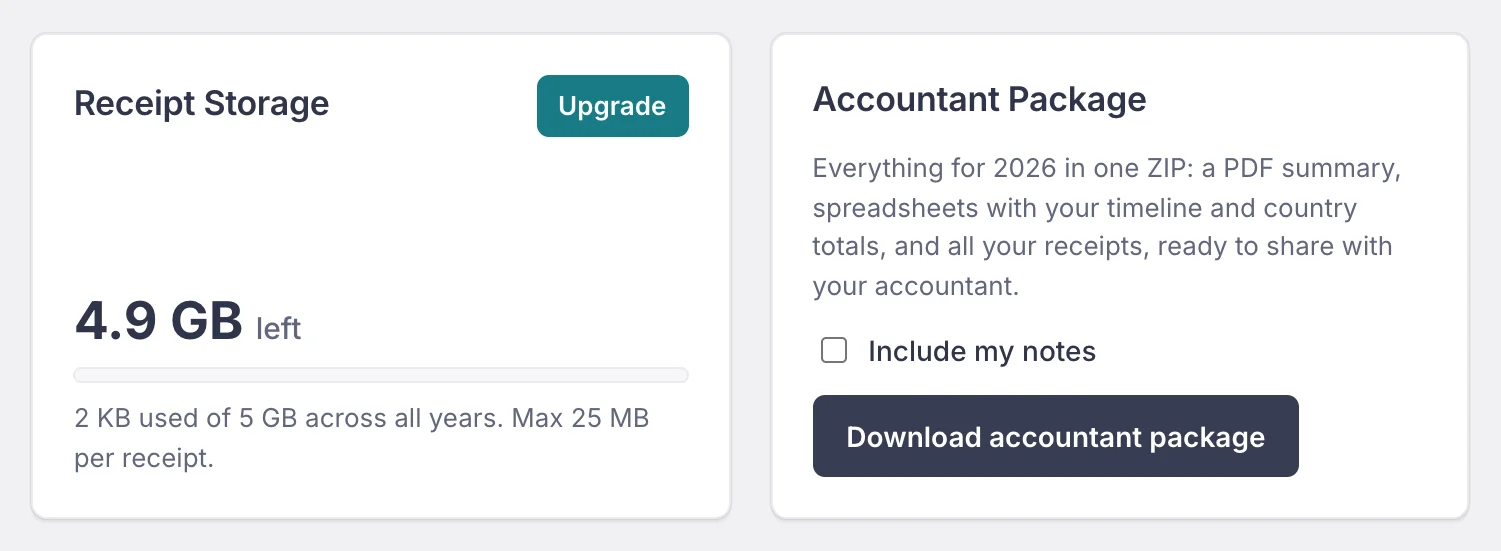
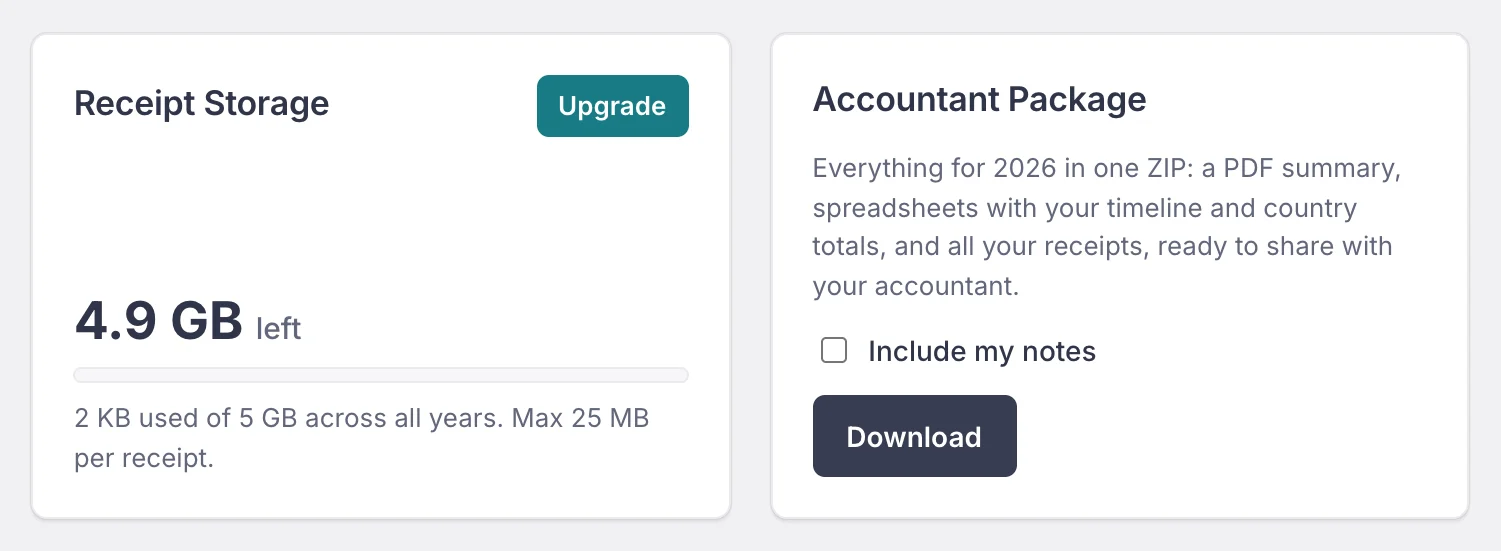
1.12.11: equal year tabs and Add movement, Download button with tooltip, no star on the base

Changed region(s): [[0.6436, 0.7096, 0.8887, 0.8639]]

diff --git a/static/css/style.css b/static/css/style.css
@@ -300,7 +300,9 @@ main:focus { outline: none; }
 
 /* Year tabs */
 .year-tabs { display: flex; gap: 4px; background: var(--surface); border: 1px solid var(--border); border-radius: 8px; padding: 4px; flex-wrap: wrap; }
-.year-tab { padding: 5px 12px; border-radius: 5px; color: var(--muted); font-weight: 600; font-size: 14px; }
+.year-tab { display: inline-flex; align-items: center; justify-content: center; min-width: 68px; padding: 5px 12px; border-radius: 5px; color: var(--muted); font-weight: 600; font-size: 14px; }
+/* The year tabs and "+ Add movement" share one height, and every tab has the same width. */
+.year-actions { align-items: stretch; }
 .year-tab:hover { text-decoration: none; background: var(--surface-2); color: var(--text); }
 .year-tab.active { background: var(--primary); color: var(--primary-text); }
 .year-tab.add { color: var(--link); }
@@ -984,16 +986,21 @@ main:focus { outline: none; }
 
 /* Header icon buttons (Documentation, Contact support) name themselves in a small tooltip under
    the button, on mouse hover and on keyboard focus; screen readers use the aria-label. */
-.icon-btn[data-tip] { position: relative; text-decoration: none; }
-.icon-btn[data-tip]::after {
+/* CSS tooltips: header icon buttons and buttons with a short label ("Download"). */
+.icon-btn[data-tip], .btn[data-tip] { position: relative; text-decoration: none; }
+.icon-btn[data-tip]::after, .btn[data-tip]::after {
   content: attr(data-tip); position: absolute; top: calc(100% + 8px); left: 50%; z-index: 30;
   transform: translate(-50%, -2px); padding: 5px 9px; border-radius: 6px; white-space: nowrap;
   background: var(--primary); color: var(--primary-text); font-size: 12px; font-weight: 600;
   line-height: 1.3; box-shadow: var(--shadow); opacity: 0; pointer-events: none;
   transition: opacity 0.12s ease, transform 0.12s ease;
 }
-@media (hover: hover) { .icon-btn[data-tip]:hover::after { opacity: 1; transform: translate(-50%, 0); } }
-.icon-btn[data-tip]:focus-visible::after { opacity: 1; transform: translate(-50%, 0); }
+@media (hover: hover) { .icon-btn[data-tip]:hover::after, .btn[data-tip]:hover::after { opacity: 1; transform: translate(-50%, 0); } }
+.icon-btn[data-tip]:focus-visible::after, .btn[data-tip]:focus-visible::after { opacity: 1; transform: translate(-50%, 0); }
+/* A text button's tooltip starts at its left edge: centred, it ran out of the card. */
+.btn[data-tip]::after { left: 0; transform: translate(0, -2px); }
+@media (hover: hover) { .btn[data-tip]:hover::after { transform: none; } }
+.btn[data-tip]:focus-visible::after { transform: none; }
 .icon-btn[aria-current="page"] { background: rgba(255, 255, 255, 0.14); }
 /* Admin page: larger section titles, and the Security Activity gear menu (a <details>, like the
    user menu, with the same panel and items; icons drawn in CSS). */

diff --git a/templates/docs.html b/templates/docs.html
@@ -265,8 +265,8 @@
 
       <section id="package" class="doc-section" data-doc-title="Accountant package">
         <h2>Accountant package</h2>
-        <p>One ZIP per year for your accountant, from the <strong>Pro</strong> plan on. Press <strong>Download accountant package</strong> on the dashboard. Tick <strong>Include my notes</strong> to add your notes to <code>timeline.csv</code>.</p>
-        {{ shot('package', 'The Accountant Package card with the Include my notes box and the Download accountant package button, next to the Receipt Storage card', 'The package is built when you press the button; it does not use your storage.') }}
+        <p>One ZIP per year for your accountant, from the <strong>Pro</strong> plan on. Press <strong>Download</strong> on the Accountant Package card of the dashboard. Tick <strong>Include my notes</strong> to add your notes to <code>timeline.csv</code>.</p>
+        {{ shot('package', 'The Accountant Package card with the Include my notes box and the Download button, next to the Receipt Storage card', 'The package is built when you press the button; it does not use your storage.') }}
         <figure class="doc-figure">
           <pre class="doc-tree" aria-label="Files in the package"><span class="doc-tree-dir">NomadLife-2026-accountant-package/</span>
   README.txt           <span class="muted">what each file is</span>

diff --git a/static/js/theme.js b/static/js/theme.js
@@ -421,8 +421,9 @@
           via.textContent = "(" + hint + ")";
           li.appendChild(via);
         }
-        if (favData) {
-          // The star: mouse and touch; Shift+Enter does the same for the highlighted country.
+        if (favData && e !== base) {
+          // The star (not on the base, which is always first anyway): mouse and touch;
+          // Shift+Enter does the same for the highlighted country.
           var on = !!favorites[e.name];
           var star = document.createElement("button");
           star.type = "button"; star.tabIndex = -1;
@@ -528,7 +529,10 @@
         setActive((active + step + shown.length) % shown.length);
       } else if (e.key === "Enter" && e.shiftKey) {
         // Shift+Enter stars or unstars the highlighted country.
-        if (isOpen && active >= 0 && shown[active]) { e.preventDefault(); toggleFavorite(shown[active]); }
+        if (isOpen && active >= 0 && shown[active]) {
+          e.preventDefault();
+          if (shown[active] !== base) toggleFavorite(shown[active]);
+        }
       } else if (e.key === "Enter") {
         if (isOpen && active >= 0 && shown[active]) { e.preventDefault(); choose(shown[active]); }
       } else if (isOpen && e.altKey && (e.key === "ArrowLeft" || e.key === "ArrowRight")) {

diff --git a/templates/dashboard.html b/templates/dashboard.html
@@ -7,7 +7,7 @@
     <p class="eyebrow">Solar year</p>
     <h1>{{ y.year }}</h1>
   </div>
-  <div class="row wrap gap-sm">
+  <div class="row wrap gap-sm year-actions">
     <nav class="year-tabs" aria-label="Years">
       {% for r in years %}
         <a class="year-tab {% if r.year == y.year %}active{% endif %}" href="{{ url_for('dashboard', year=r.year) }}"{% if r.year == y.year %} aria-current="page"{% endif %}>{{ r.year }}</a>
@@ -267,7 +267,7 @@
     <form method="get" action="{{ url_for('year_package', year=y.year) }}" class="package-form" data-download>
       <label class="check"><input type="checkbox" name="notes" value="1"> Include my notes</label>
       <input type="hidden" name="dl" value="">
-      <button class="btn btn-primary" type="submit">Download accountant package</button>
+      <button class="btn btn-primary" type="submit" data-tip="Download Accountant Package" aria-label="Download Accountant Package">Download</button>
     </form>
     {% else %}
     <p class="small">Available from the Pro plan.</p>

diff --git a/tests/test_card_alignment.py b/tests/test_card_alignment.py
@@ -23,5 +23,25 @@ class CardAlignmentTests(unittest.TestCase):
         self.assertIn(".side > .card > .card-head + * { margin-top: auto; }", text)
 
 
+class YearActionsTests(unittest.TestCase):
+    def test_the_year_tabs_and_add_movement_share_one_size(self):
+        text = css()
+        self.assertIn(".year-actions { align-items: stretch; }", text)
+        self.assertIn(".year-tab { display: inline-flex; align-items: center; justify-content: center; "
+                      "min-width: 68px;", text)
+        with open(os.path.join(ROOT, "templates", "dashboard.html"), encoding="utf-8") as f:
+            self.assertIn('<div class="row wrap gap-sm year-actions">', f.read())
+
+
+class PackageButtonTests(unittest.TestCase):
+    def test_the_button_says_download_with_a_tooltip(self):
+        with open(os.path.join(ROOT, "templates", "dashboard.html"), encoding="utf-8") as f:
+            html = f.read()
+        self.assertIn('<button class="btn btn-primary" type="submit" data-tip="Download Accountant Package" '
+                      'aria-label="Download Accountant Package">Download</button>', html)
+        self.assertIn(".icon-btn[data-tip]::after, .btn[data-tip]::after {", css())
+        self.assertIn(".btn[data-tip]::after { left: 0; transform: translate(0, -2px); }", css())
+
+
 if __name__ == "__main__":
     unittest.main()

diff --git a/tests/test_favorites.py b/tests/test_favorites.py
@@ -95,6 +95,9 @@ class PickerScriptTests(AppTestCase):
         self.assertIn('star.className = "combo-star";', js)
         self.assertIn('home.className = "combo-home";', js)
         self.assertIn('if (e.key === "Enter" && e.shiftKey)', js)  # Shift+Enter stars
+        # The base country has no star: it is always first, with its home icon.
+        self.assertIn("if (favData && e !== base) {", js)
+        self.assertIn("if (shown[active] !== base) toggleFavorite(shown[active]);", js)
         self.assertIn('e.altKey && (e.key === "ArrowLeft" || e.key === "ArrowRight")', js)
         css = read("static", "css", "style.css")
         self.assertIn('.combo-star[aria-pressed="true"] { opacity: 1; color: var(--star);', css)

diff --git a/CHANGELOG.md b/CHANGELOG.md
@@ -9,13 +9,15 @@ All notable changes to this project are documented in this file.
 - **Calendar** on the year dashboard, before the Map, with a calendar icon and its year in the title, such as **Calendar (2027)**. It starts folded and opens with a click on its head. It shows the selected year's 12 months (four a row on wide screens, then three, two and one), each day in the color of the country it counts for, with the same rules as Days per Country: a shared day goes to the stay that started later, past days without a stay are the base, and days still to come without a stay are grey ("Not planned yet"). A legend lists each country with its flag and days; pointing at a day shows its date, country and city, and today has an outline. The colors are set for the light and dark themes, with every day number readable. The documentation has a section on it.
 - **Show 183 marker** switch, iOS style, in the top right of the Days in Base country and Days per Country cards, one setting for both: off hides the 183 day tick and its message ("N days short of 183", "At least 183 days") and the tick on every country bar. This browser remembers the choice for every year, applied before the page is drawn so it never flashes.
 - **Favorite countries.** In the country picker, a star next to each country (yellow once chosen) keeps it in a **Favorites** tab next to **All countries**. Favorites are saved with the account, so they follow it on every device (up to 50); Shift+Enter stars the highlighted country and Alt+arrows switch tabs.
-- The year's **base country comes first** in the country picker, with a blue home icon.
+- The year's **base country comes first** in the country picker, with a blue home icon and no star.
 - The **receipt type** lists (new movement, upload and rename forms) are a styled list in the country picker's look, with an icon per type: Rental contract, Hotel / home rent, Flight ticket, Other. The form posts the same values.
 
 ### Changed
 
 - **Only logged days count.** A day without a movement no longer counts toward the base once it has passed: it counts for no country, past or future, and shows grey ("Not logged") in the calendar. Days at the base count through a movement there. The documentation's rules and worked example, the New year page, the guide and the accountant package say so.
 - **The city of a movement is optional.** Only the country is required; a movement without a city shows as its country (such as "Italy") in the table, its page, messages, the calendar, the map and the accountant package (receipt folders like "01_2026-03-01_Italy"). The base keeps its city. The calendar names only the country of each day.
+- The year tabs and **+ Add movement** have the same height, and every year tab (and **+ Year**) the same width.
+- The Accountant Package button says **Download**, with the tooltip "Download Accountant Package" (also its name for screen readers).
 - The Accountant Package card reads "Everything for 2026 in one ZIP: a PDF summary, spreadsheets with your timeline and country totals, and all your receipts, ready to share with your accountant."
 - The cards **Days in base country** and **Days abroad** are now **Days in Base country** and **Days outside Base country**. The accountant package keeps its wording.
 - The titles of the four top cards (Base, Days in Base country, Days outside Base country, Year elapsed) have the style of the card titles below them, such as Days per Country; on Days in Base country the switch sits above the title.
